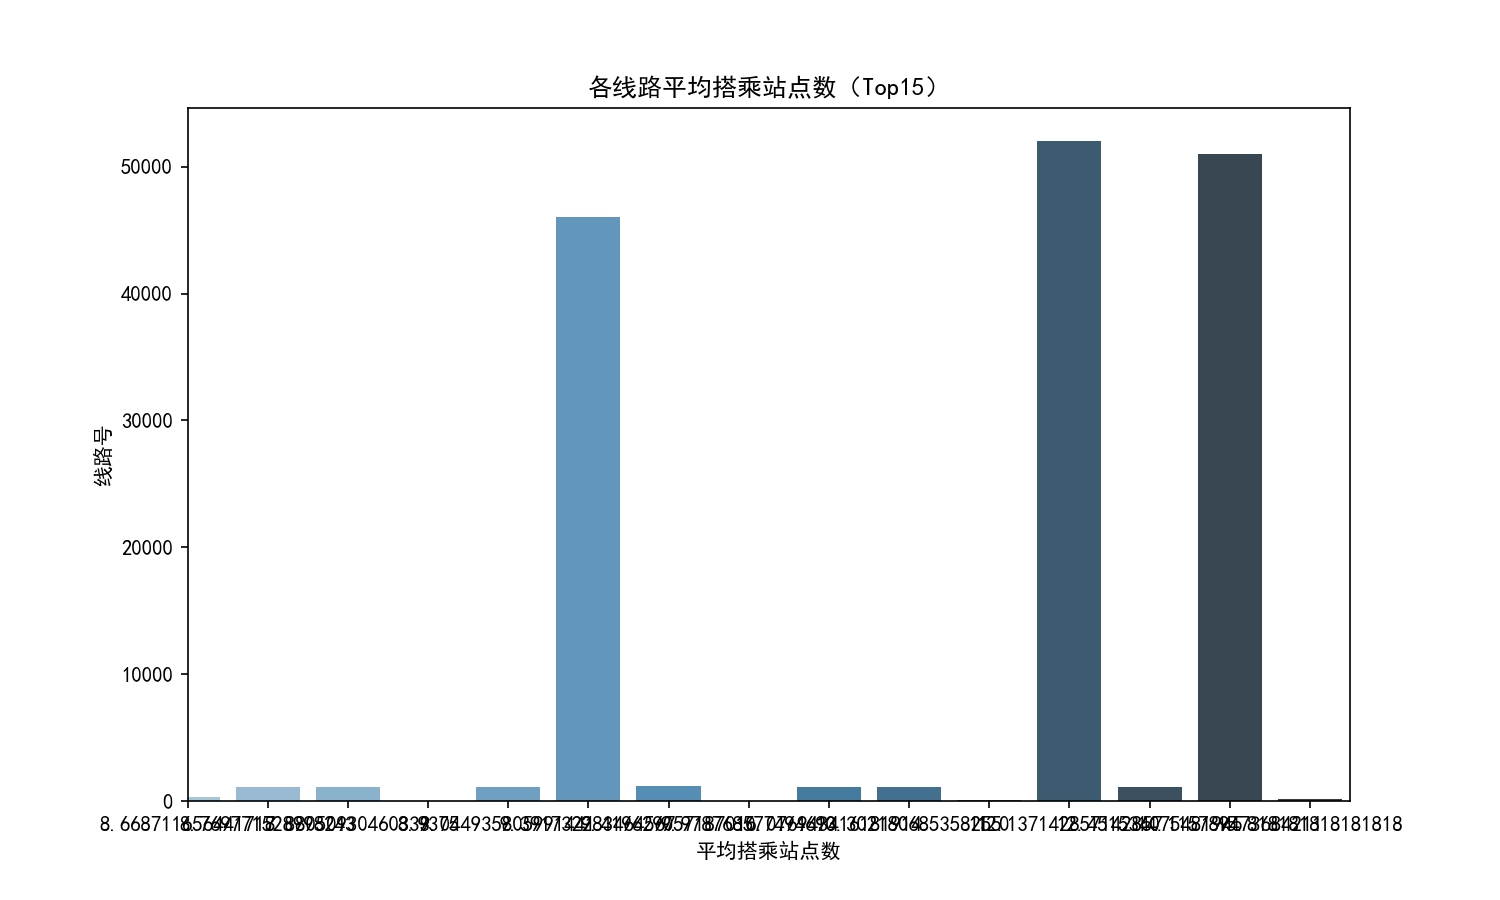
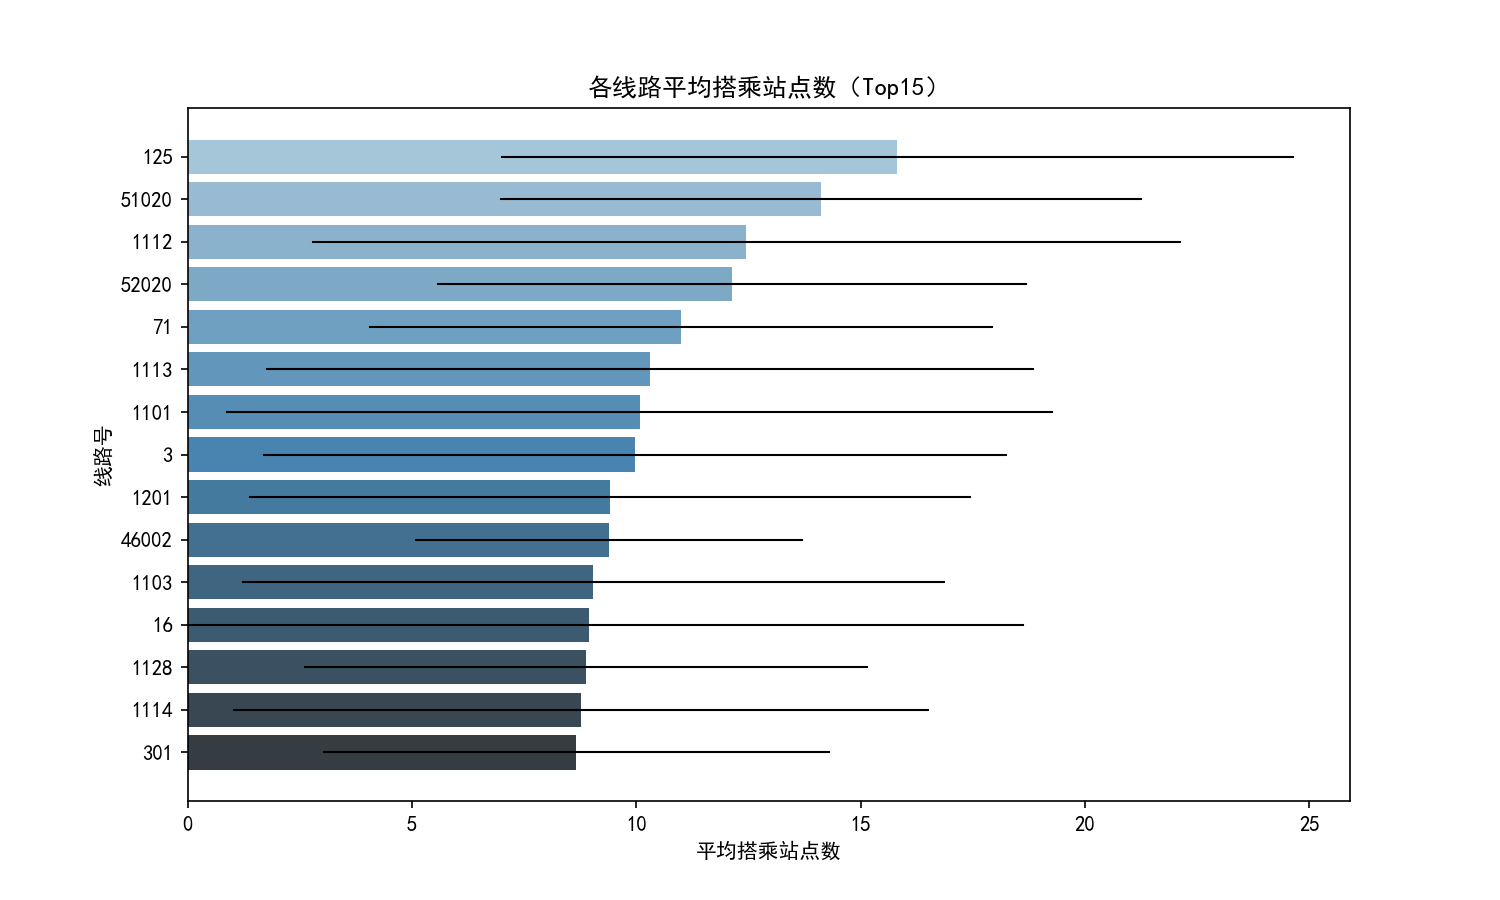
重点修改任务3图像

Changed region(s): [[0.0613, 0.1556, 0.9507, 0.9333]]

diff --git a/第三次.py b/第三次.py
@@ -49,8 +49,6 @@ df = df.dropna()
 print("\n缺失值处理完成(已删除包含缺失值的行)")
 
 
-
-
 #任务2
 #统计两个时间段人数
 #24小时柱状图
@@ -156,16 +154,24 @@ print(route_stats.head(10))
 #3.可视化处理
 #取平均值最高的前15条线路
 top15 = route_stats.head(15)
+top15['线路号'] = top15['线路号'].astype(str)
 plt.figure(figsize=(10, 6)) #设置图像大小
 
 #使用seaborn画水平条形图
 sns.barplot(
-    data=top15, #数据来源
-    x='mean_stops',#x轴：平均搭乘站点数
-    y='线路号',#y轴：线路号
-    palette='Blues_d',  #颜色风格
-    errorbar='sd',#误差棒（标准差）
-    capsize=0.3#误差棒端点大小
+    data=top15,
+    x='mean_stops',
+    y='线路号',
+    palette='Blues_d'
+)
+plt.errorbar(#手动添加误差棒
+    x=top15['mean_stops'],
+    y=range(len(top15)),
+    xerr=top15['std_stops'],
+    fmt='none',
+    ecolor='black',
+    capsize=0.3,
+    elinewidth=1
 )
 #添加标题和坐标轴标签
 plt.title("各线路平均搭乘站点数（Top15）")
